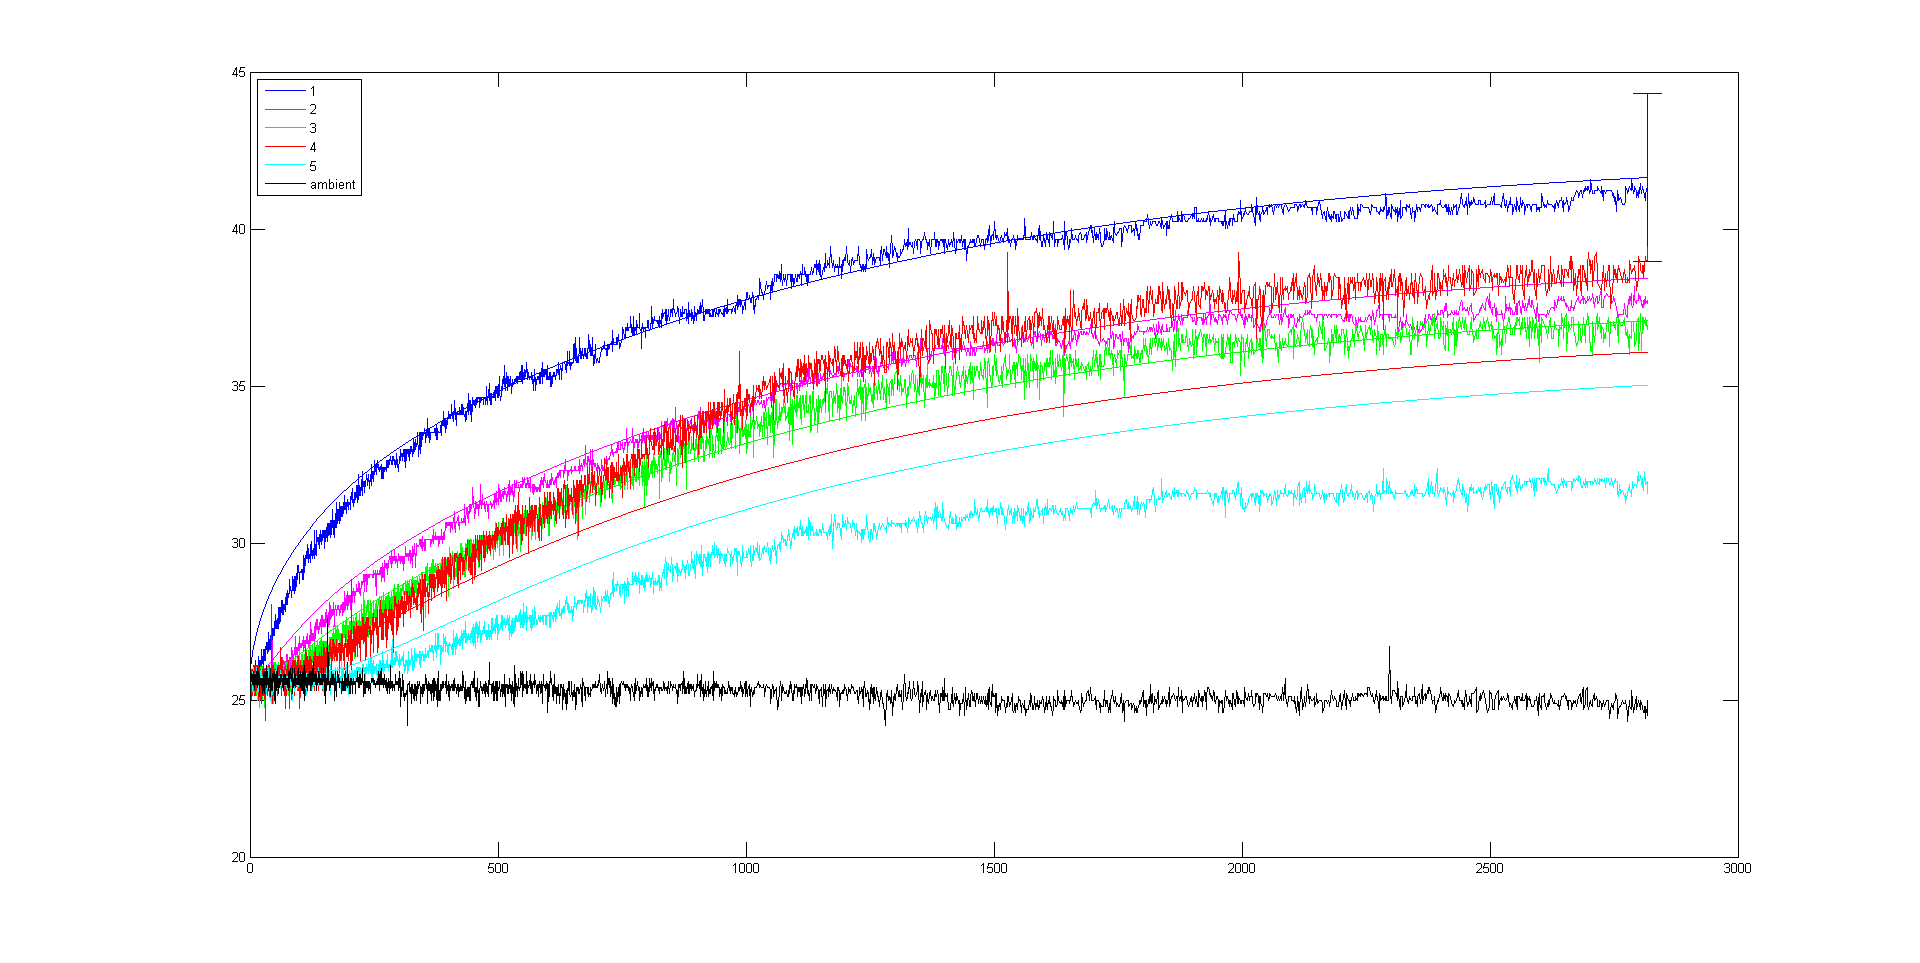
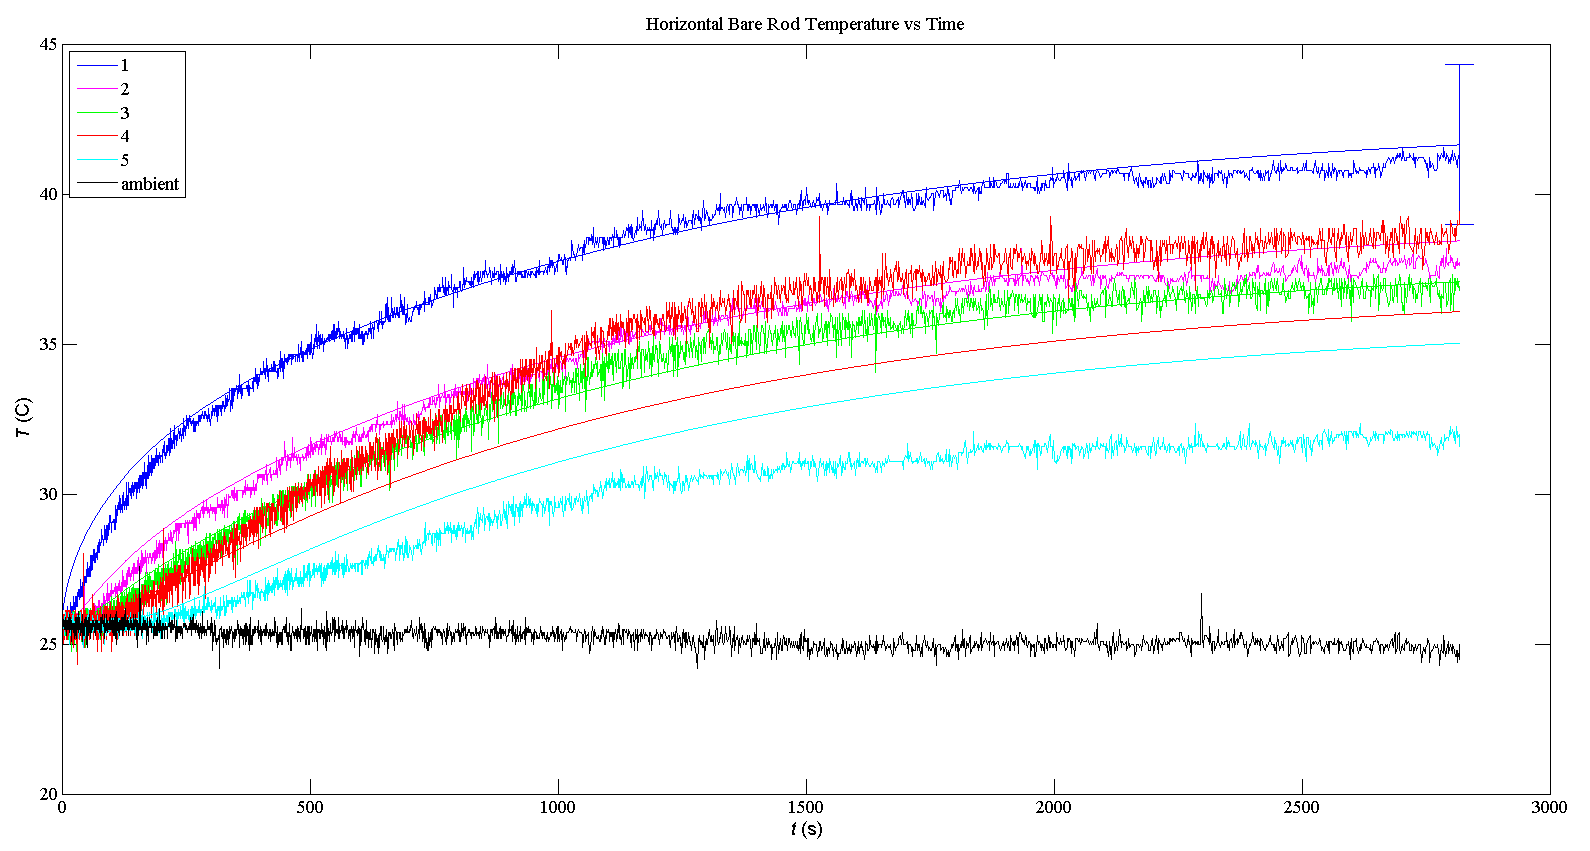
better pics, initial values, add figure stuff

diff --git a/Lab/Black Rod/FitCodeBlackRod.m b/Lab/Black Rod/FitCodeBlackRod.m
@@ -4,7 +4,7 @@ readings = readings(:, [2 3 5 4 1 6], :); %mixed up sensors
 
 lb = [100 0 0.9999 0 0.9999 100];
 ub = [270 Inf 1 Inf 1 10000];
-x = [220 0 1 10 1 10000]; %initial guess
+x = [160 16 1 10 1 1600]; %initial guess
 offsets2 = [2.4477 3.1061 1.1222 3.9503 1.7317 0];
 %parameters: 1st is conduction constant, 2nd is convection inside tube,
 %3rd is emissivity inside tube, 4th is convection outside tube, 5th is

diff --git a/Lab/Vertical Bare Rod/FitCodeTopPower.m b/Lab/Vertical Bare Rod/FitCodeTopPower.m
@@ -2,7 +2,7 @@ load('June10VertBareRodHeating-TopPower');
 
 lb = [0 0 0.25 0 0 100];
 ub = [Inf Inf 0.35 Inf 1 10000];
-x = [200 2000 0.1 10 0.3 1000]; %initial guess
+x = [200 16 0.1 10 0.3 1400]; %initial guess
 offsets2 = [0 4.6599 -1.4521 8.2331 12.8798 1.9197];
 %parameters: 1st is conduction constant, 2nd is convection inside tube,
 %3rd is emissivity inside tube, 4th is convection outside tube, 5th is

diff --git a/Lab/Transient Insulated Rod Heating/FitCode.m b/Lab/Transient Insulated Rod Heating/FitCode.m
@@ -1,7 +1,7 @@
 load('june1TransientInsulatedHeating.mat');
 lb = [0 0 0 0 0 100];
 ub = [Inf Inf 1 Inf 1 10000];
-x = [212 0 0 355.7 1 900]; %initial guess
+x = [190 0 0 375 1 988]; %initial guess
 offsets2 = [0.3312 2.9439 0.75 3.3023 -1.0658 0];
 %parameters: 1st is conduction constant, 2nd is convection inside tube,
 %3rd is emissivity inside tube, 4th is convection outside tube, 5th is

diff --git a/Lab/James' Lab Simulations/transFinDiffPlotter.m b/Lab/James' Lab Simulations/transFinDiffPlotter.m
@@ -41,3 +41,8 @@ if(amb1)
 else
     legend(lines, '1', '2', '3','4', '5', 'ambient', 'Location', 'northwest');
 end
+
+xlabel('{\it t} (s)')
+ylabel('{\it T} (C)')
+set(gca, 'FontSize', 14)
+set(gca, 'FontName', 'Times New Roman')
